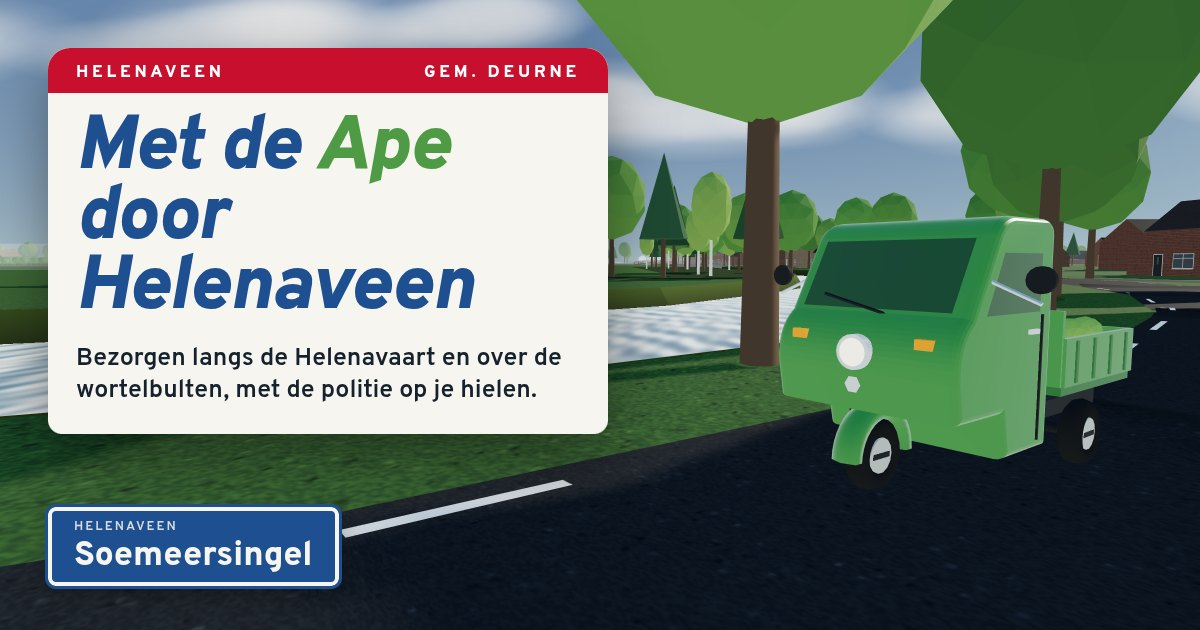
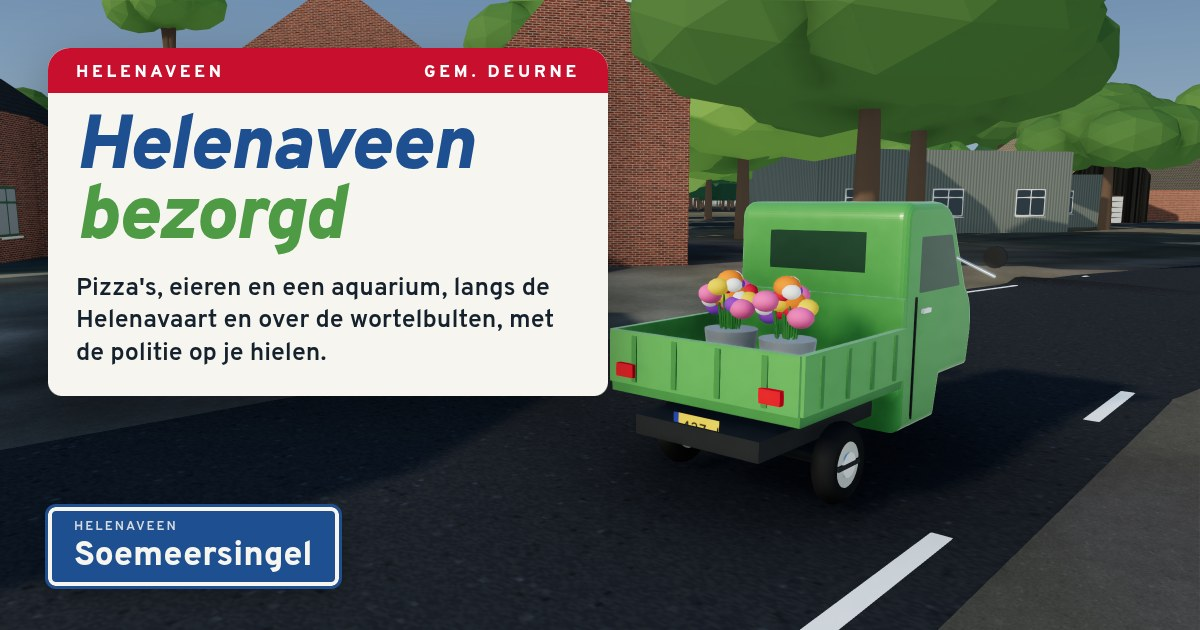
Nieuwe titel en deelplaatje

diff --git a/404.html b/404.html
@@ -3,9 +3,9 @@
 <head>
 <meta charset="utf-8">
 <meta name="viewport" content="width=device-width, initial-scale=1">
-<title>Met de Ape door Helenaveen</title>
+<title>Helenaveen bezorgd</title>
 <link rel="canonical" href="https://jankeesvw.github.io/helenaveen-bezorgd/">
-<meta property="og:title" content="Met de Ape door Helenaveen">
+<meta property="og:title" content="Helenaveen bezorgd">
 <meta property="og:description" content="Bezorgen door Helenaveen met de politie op je hielen.">
 <meta property="og:url" content="https://jankeesvw.github.io/helenaveen-bezorgd/">
 <meta property="og:image" content="https://jankeesvw.github.io/helenaveen-bezorgd/social.jpg">

diff --git a/index.html b/index.html
@@ -3,9 +3,9 @@
 <head>
 <meta charset="utf-8">
 <meta name="viewport" content="width=device-width, initial-scale=1">
-<title>Met de Ape door Helenaveen</title>
+<title>Helenaveen bezorgd</title>
 <link rel="canonical" href="https://jankeesvw.github.io/helenaveen-bezorgd/">
-<meta property="og:title" content="Met de Ape door Helenaveen">
+<meta property="og:title" content="Helenaveen bezorgd">
 <meta property="og:description" content="Bezorgen door Helenaveen met de politie op je hielen.">
 <meta property="og:url" content="https://jankeesvw.github.io/helenaveen-bezorgd/">
 <meta property="og:image" content="https://jankeesvw.github.io/helenaveen-bezorgd/social.jpg">
